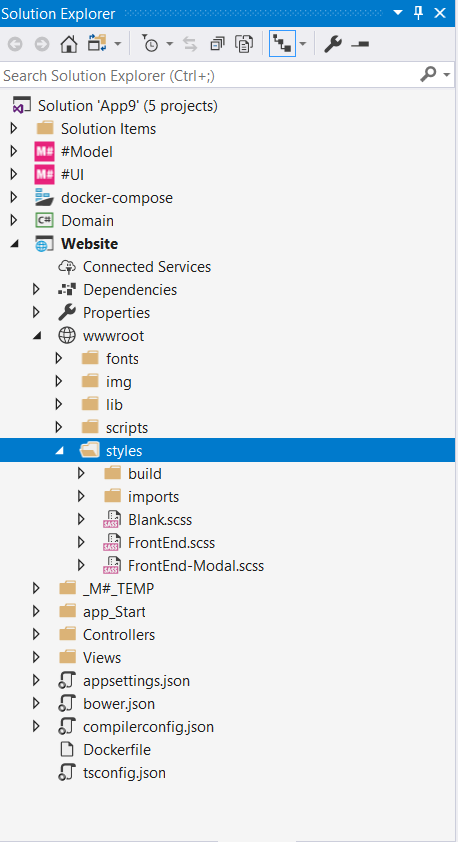
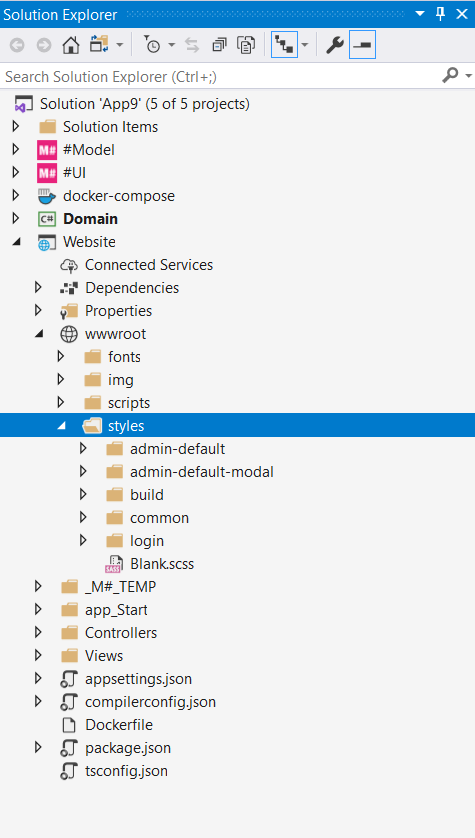
Correction Layout Name and change related pic

diff --git a/UI/ModalVSStandard.md b/UI/ModalVSStandard.md
@@ -5,8 +5,8 @@ In this lesson we will learn about two types of pages provided in M#. We will al
 ## Structure
 M# creates three types of master page when you create a new project. All master pages are loaded with a default layout and set of CSS files.
 
-- FrontEnd (Standard Pages)
-- FrontEnd.Modal (Modal / popup pages)
+- AdminDefault (Standard Pages)
+- AdminDefault.Modal (Modal / popup pages)
 
 M# encapsulates all the Stylesheets and Master Pages in one folder called **styles** that is located under **wwwroot** folder of **Website** project:
 
@@ -20,17 +20,11 @@ This stylesheet contains the global design related styles, which can be used gen
 ### Blank.scss
 This template is used for **Blank** master page
 
-### FrontEnd.scss
-This template is used for **Front end** master page
-
-### FrontEnd-Modal.scss
-This template is used for **Front end Modal** master page
-
-## FrontEnd Master Page
+## AdminDefault Master Page
 Although there is no hard and fast rule for using master pages, pages inheriting this type of master page are usually used to display primary data in the website. M# creates three default modules for this type of page as shown in the code below:
 
 ```HTML
-@{Layout = Request.IsAjaxCall() ? null : "~/Views/Layouts/FrontEnd.Container.cshtml";}
+@{Layout = Request.IsAjaxCall() ? null : "~/Views/Layouts/AdminDefault.Container.cshtml";}
 @{ var leftMenu = ViewData["LeftMenu"].ToStringOrEmpty(); }
 
 <main>
@@ -75,7 +69,7 @@ This module holds all the footer related info in the default template and is als
 Pages inheriting this master page are displayed on top of standard pages in a modal or popup form.
 
 ```HTML
-@{Layout = Request.IsAjaxRequest() ? null : "~/Views/Layouts/FrontEnd.Modal.Container.cshtml";}
+@{Layout = Request.IsAjaxRequest() ? null : "~/Views/Layouts/AdminDefault.Modal.Container.cshtml";}
 <main>
     <div class="container-fluid">
         <div class="page">

diff --git a/Tutorials/13/README.md b/Tutorials/13/README.md
@@ -146,7 +146,7 @@ public class CountryPage : RootPage
 {
     public CountryPage()
     {
-        Layout(Layouts.FrontEnd);
+        Layout(Layouts.AdminDefault);
 
         Add<Modules.CountriesList>();
         //Adds a country list into this page. Countries list will be implemented later
@@ -165,7 +165,7 @@ namespace Country
     {
         public EnterPage()
         {
-            Layout(Layouts.FrontEndModal);
+            Layout(Layouts.AdminDefaultModal);
 
             Add<Modules.CountryForm>();
             // Adds a country form
@@ -186,7 +186,7 @@ namespace Country
     {
         public ViewPage()
         {
-            Layout(Layouts.FrontEnd);
+            Layout(Layouts.AdminDefault);
 
             Add<Modules.CitiesList>();
             // Adds cities list to this page
@@ -209,7 +209,7 @@ namespace Country.City
     {
         public CityEnterPage()
         {
-            Layout(Layouts.FrontEndModal);
+            Layout(Layouts.AdminDefaultModal);
 
             Add<Modules.CityForm>();
             //Adds a city form into this page
@@ -230,7 +230,7 @@ namespace Country.Customer
     {
         public CustomerEnterPage()
         {
-            Layout(Layouts.FrontEndModal);
+            Layout(Layouts.AdminDefaultModal);
 
             Add<Modules.CustomerForm>();
             //Adds a customer form into this page
@@ -442,7 +442,7 @@ public class ResellerPage : RootPage
 {
     public ResellerPage()
     {
-        Layout(Layouts.FrontEnd);
+        Layout(Layouts.AdminDefault);
 
         Add<Modules.ResellersList>();
     }
@@ -460,7 +460,7 @@ namespace Reseller
     {
         public EnterPage()
         {
-            Layout(Layouts.FrontEndModal);
+            Layout(Layouts.AdminDefaultModal);
 
             Add<Modules.ResellerForm>();
             // Adds a reseller form into the webpage

diff --git a/Tutorials/1/README.md b/Tutorials/1/README.md
@@ -202,7 +202,7 @@ namespace Contact
     {
         public ContactsPage()
         {
-            Layout(Layouts.FrontEnd);
+            Layout(Layouts.AdminDefault);
 
             //will be implemented soon
             Add<Modules.ContactsList>();
@@ -211,7 +211,7 @@ namespace Contact
 }
 ```
 
-This class inherits from **SubPage** and include Layout and Modules. With *Layout(Layouts.FrontEnd)* method I have specified page layout and by calling `Add<Modules.ContactsList>()` I told M# that this page should show ContactList module.
+This class inherits from **SubPage** and include Layout and Modules. With *Layout(Layouts.AdminDefault)* method I have specified page layout and by calling `Add<Modules.ContactsList>()` I told M# that this page should show ContactList module.
 
 Navigate to **Modules** folder of **#UI** project and create folder named **Contact**. Then add a *List module* named **ContactList** using M# context menu:
 
@@ -273,7 +273,7 @@ namespace Contact
     {
         public EnterPage()
         {
-            Layout(Layouts.FrontEnd);
+            Layout(Layouts.AdminDefault);
 
             Add<Modules.ContactForm>();
         }

diff --git a/Tutorials/3/README.md b/Tutorials/3/README.md
@@ -151,7 +151,7 @@ namespace Project
     {
         public EnterPage()
         {
-            Layout(Layouts.FrontEndModal);
+            Layout(Layouts.AdminDefaultModal);
 
             Add<ProjectAdd>();
         }
@@ -169,7 +169,7 @@ namespace Project
     {
         public EditPage()
         {
-            Layout(Layouts.FrontEnd);
+            Layout(Layouts.AdminDefault);
 
             Add<ProjectEdit>();
         }
@@ -318,7 +318,7 @@ namespace ProjectTask
     {
         public EnterPage()
         {
-            Layout(Layouts.FrontEnd);
+            Layout(Layouts.AdminDefault);
 
             Add<Modules.ProjectTaskAdd>();
         }
@@ -335,7 +335,7 @@ namespace ProjectTask
     {
         public EditPage()
         {
-            Layout(Layouts.FrontEndModal);
+            Layout(Layouts.AdminDefaultModal);
 
             Add<Modules.ProjectTaskEdit>();
         }
@@ -352,7 +352,7 @@ namespace ProjectTask
     {
         public ViewPage()
         {
-            Layout(Layouts.FrontEnd);
+            Layout(Layouts.AdminDefault);
 
             Add<Modules.ProjectTaskView>();
         }

diff --git a/UI/MasterPage.md b/UI/MasterPage.md
@@ -21,9 +21,9 @@ namespace App
             Role("Anonymous");
             Role("Admin").SkipQueryStringSecurity();
 
-            Layout("Front end").AjaxRedirect().Default().VirtualPath("~/Views/Layouts/FrontEnd.cshtml");
+            Layout("Front end").AjaxRedirect().Default().VirtualPath("~/Views/Layouts/AdminDefault.cshtml");
             Layout("Blank").AjaxRedirect().VirtualPath("~/Views/Layouts/Blank.cshtml");
-            Layout("Front end Modal").Modal().VirtualPath("~/Views/Layouts/FrontEnd.Modal.cshtml");
+            Layout("Front end Modal").Modal().VirtualPath("~/Views/Layouts/AdminDefault.Modal.cshtml");
 
             PageSetting("LeftMenu");
             PageSetting("SubMenu");
@@ -53,7 +53,7 @@ namespace SampleEntity
     {
         public EnterPage()
         {
-            Layout(Layouts.FrontEnd);
+            Layout(Layouts.AdminDefault);
 
             // Add related modules
         }

diff --git a/Tutorials/4/README.md b/Tutorials/4/README.md
@@ -150,7 +150,7 @@ namespace AssetType
     {
         public EnterPage()
         {
-            Layout(Layouts.FrontEnd);
+            Layout(Layouts.AdminDefault);
 
             Add<Modules.AssetTypeForm>();
         }
@@ -263,7 +263,7 @@ namespace Owner
     {
         public EnterPage()
         {
-            Layout(Layouts.FrontEnd);
+            Layout(Layouts.AdminDefault);
 
             Add<Modules.OwnerForm>();
         }
@@ -372,7 +372,7 @@ namespace Asset
     {
         public EnterPage()
         {
-            Layout(Layouts.FrontEnd);
+            Layout(Layouts.AdminDefault);
 
             Add<Modules.AssetForm>();
         }
@@ -393,7 +393,7 @@ namespace Asset
     {
         public ViewPage()
         {
-            Layout(Layouts.FrontEnd);
+            Layout(Layouts.AdminDefault);
 
             Add<Modules.AssetView>();
         }

diff --git a/Tutorials/10/README.md b/Tutorials/10/README.md
@@ -117,7 +117,7 @@ namespace Agency
     {
         public EnterPage()
         {
-            Layout(Layouts.FrontEnd);
+            Layout(Layouts.AdminDefault);
 
             Add<Modules.AgencyForm>();
         }
@@ -125,7 +125,7 @@ namespace Agency
 }
 ```
 
-The "EnterPage" class holds agency form module and we have to set it's layout to `Layouts.FrontEnd` as requirement told us.
+The "EnterPage" class holds agency form module and we have to set it's layout to `Layouts.AdminDefault` as requirement told us.
 Create *ViewPage* sub page class which holds agency view module like below:
 
 ```csharp
@@ -274,7 +274,7 @@ namespace Booking
     {
         public EnterPage()
         {
-            Layout(Layouts.FrontEndModal);
+            Layout(Layouts.AdminDefaultModal);
 
             Add<Modules.BookingForm>();
         }

diff --git a/UI/PageSettings.md b/UI/PageSettings.md
@@ -19,9 +19,9 @@ namespace App
             Role("Anonymous");
             Role("Admin").SkipQueryStringSecurity();
 
-            Layout("Front end").AjaxRedirect().Default().VirtualPath("~/Views/Layouts/FrontEnd.cshtml");
+            Layout("Front end").AjaxRedirect().Default().VirtualPath("~/Views/Layouts/AdminDefault.cshtml");
             Layout("Blank").AjaxRedirect().VirtualPath("~/Views/Layouts/Blank.cshtml");
-            Layout("Front end Modal").Modal().VirtualPath("~/Views/Layouts/FrontEnd.Modal.cshtml");
+            Layout("Front end Modal").Modal().VirtualPath("~/Views/Layouts/AdminDefault.Modal.cshtml");
 
             PageSetting("LeftMenu");
             PageSetting("SubMenu");

diff --git a/Tutorials/11/README.md b/Tutorials/11/README.md
@@ -121,7 +121,7 @@ namespace Employee
     {
         public EnterPage()
         {
-            Layout(Layouts.FrontEnd);
+            Layout(Layouts.AdminDefault);
 
             Add<Modules.EmployeeForm>();
         }
@@ -129,7 +129,7 @@ namespace Employee
 }
 ```
 
-The "EnterPage" class holds employee form module and we have set its layout to "Layouts.FrontEnd" according to requirements.
+The "EnterPage" class holds employee form module and we have set its layout to "Layouts.AdminDefault" according to requirements.
 
 ### Creating required module of Employee Pages
 

diff --git a/Tutorials/2/README.md b/Tutorials/2/README.md
@@ -207,7 +207,7 @@ namespace Country
     {
         public EnterPage()
         {
-            Layout(Layouts.FrontEndModal);
+            Layout(Layouts.AdminDefaultModal);
 
             Add<Modules.CountryForm>();
         }
@@ -338,7 +338,7 @@ namespace Customer
     {
         public EnterPage()
         {
-            Layout(Layouts.FrontEndModal);
+            Layout(Layouts.AdminDefaultModal);
 
             Add<Modules.CustomerForm>();
         }

diff --git a/Tutorials/9/README.md b/Tutorials/9/README.md
@@ -141,7 +141,7 @@ namespace ServiceType
     {
         public EnterPage()
         {
-            Layout(Layouts.FrontEnd);
+            Layout(Layouts.AdminDefault);
 
             Add<Modules.ServiceTypeForm>();
         }
@@ -249,7 +249,7 @@ namespace Supplier
     {
         public EnterPage()
         {
-            Layout(Layouts.FrontEnd);
+            Layout(Layouts.AdminDefault);
 
             Add<Modules.SupplierForm>();
         }

diff --git a/UI/ModuleHosting.md b/UI/ModuleHosting.md
@@ -13,7 +13,7 @@ namespace Supplier
     {
         public EnterPage()
         {
-            Layout(Layouts.FrontEnd);
+            Layout(Layouts.AdminDefault);
 
             // Add modules here like this one:
             Add<Modules.SampleForm>();
